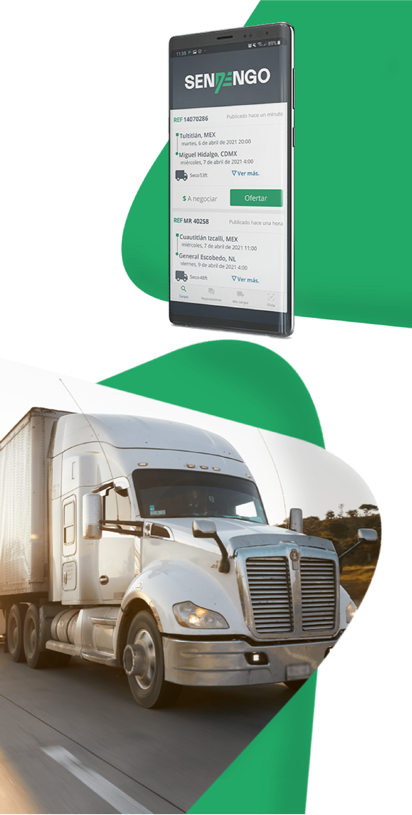
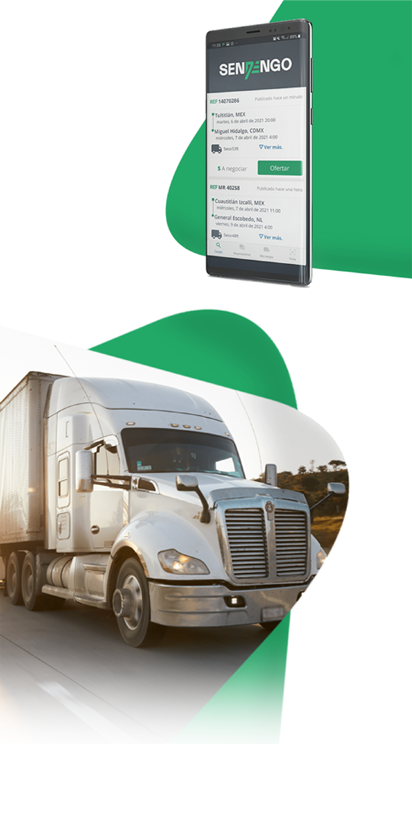
cambios en mobile

diff --git a/css/mobilestyles.css b/css/mobilestyles.css
@@ -1,6 +1,6 @@
 @media (max-width: 575.98px) {
     .top-banner h1 {
-        font-size: 1.5rem;
+        font-size: 24px;
         font-weight: 500;
         text-align: center;
         line-height: 31px;
@@ -21,8 +21,11 @@
         align-items: center;
     }
 
+
+
     .bottom-banner {
-        height: 95px;
+        height: 60px;
+        align-items: center !important;
     }
 
     .bottom-banner h3 {
@@ -32,6 +35,7 @@
     .content-about {
         padding-left: 20px;
         padding-top: 55px;
+        padding-bottom: 55px;
     }
 
     .content-about h2 {
@@ -39,8 +43,9 @@
     }
 
     .design-connecting h2 {
-        font-size: 26px;
-        line-height: 35px;
+        font-size: 20px;
+        line-height: 32px;
+        padding-top: 0 !important;
     }
 
     .connecting-space-card {
@@ -48,9 +53,15 @@
         margin-bottom: 0 !important;
     }
 
+    .text-connecting {
+        font-size: 18px !important;
+        line-height: 30px;
+    }
+
     .button-white {
         padding-left: 18px;
         padding-right: 18px;
+        font-size: 1.25em;
     }
 
     .button-connecting {
@@ -59,6 +70,12 @@
 
     .container-team {
         padding-left: 20px;
+    }
+
+    .container-team h2 {
+        font-size: 28px;
+        line-height: 34px;
+
     }
 
     .imagen-team {
@@ -71,7 +88,7 @@
     }
 
     .whatsapp-banner {
-        height: 313px;
+        height: 200px;
         margin-bottom: 37px;
     }
 
@@ -102,6 +119,18 @@
         display: flex;
         justify-content: center;
         margin-top: 20px;
+        flex-direction: column;
+        align-items: center;
+    }
+
+    .content-partner h2 {
+        font-size: 28px;
+
+    }
+
+    .content-partner img {
+        padding: 0 !important;
+        margin: 0 !important;
     }
 
     .text-connecting-regular {
@@ -136,6 +165,7 @@
 
     .conten-whats-transportista h2 {
         display: inline;
+        font-size: 24px;
     }
 
     .whatsapp-banner {
@@ -144,8 +174,12 @@
 
     .content-app {
         padding: 0 !important;
-        margin-top: 80px;
-        margin-bottom: 64px;
+        margin-top: 50px;
+        margin-bottom: 50px;
+    }
+
+    .content-app p {
+        font-size: 24px;
     }
 
     .carrusel-faq h2 {
@@ -154,7 +188,7 @@
     }
 
     .whats-banner-faq {
-        height: 237px !important;
+        height: 170px !important;
     }
 
     .content-whats-faq {
@@ -162,8 +196,18 @@
 
     }
 
+    .content-whats-faq h2 {
+        font-size: 20px;
+    }
+
     .content-whats-faq button {
         margin-bottom: 20px;
+        margin-top: 0 !important;
+    }
+
+    .section-registro {
+        padding-bottom: 0 !important;
+        margin-bottom: 30px !important;
     }
 
     .navbar .container {
@@ -195,6 +239,7 @@
     .botones-home {
         flex-direction: column;
         align-items: center;
+        margin-bottom: 0;
     }
 
     .botones-home-space {
@@ -205,6 +250,10 @@
 
     .bottom-banner {
         position: initial;
+    }
+
+    .bottom-banner h3 {
+        font-size: 1.25em;
     }
 
     .button-home-embarcador {
@@ -221,8 +270,14 @@
 
     }
 
+    .whats-embarcador-mobile h2 {
+        font-size: 24px;
+        line-height: 32px;
+    }
+
     .whats-embarcador-mobile span {
         visibility: hidden;
+        display: none;
     }
 
     .content-terminos {
@@ -231,6 +286,67 @@
 
     .content-terminos a {
         padding-bottom: 11px;
+    }
+
+    .footer-mobile {
+        display: flex;
+        flex-direction: column;
+        align-items: center;
+    }
+
+    .text-testimonial {
+        font-size: 16px;
+    }
+
+    .testimonial-mobile {
+        margin: 0 !important;
+    }
+
+    .rutas-mobile {
+        padding-bottom: 0 !important;
+        margin-bottom: 30px !important;
+    }
+
+    .section-blog h2 {
+        font-size: 24px;
+        line-height: 30px;
+        padding: 0 !important;
+        margin-top: 30px !important;
+        margin-bottom: 30px !important;
+
+    }
+
+    .card {
+        margin-bottom: 20px;
+    }
+
+    .accordion-button {
+        font-size: 20px;
+        line-height: 30px;
+    }
+
+    .accordion-button:not(.collapsed) {
+        font-size: 20px;
+    }
+
+    .accordion-body {
+        font-size: 16px;
+    }
+
+    .title-faq {
+        font-size: 28px;
+    }
+
+    .button-green {
+        font-size: 20px;
+    }
+
+    .top-banner-blog h1 {
+        font-size: 24px;
+    }
+
+    .top-banner-faq h1 {
+        font-size: 24px;
     }
 
 }

diff --git a/transportista.html b/transportista.html
@@ -44,8 +44,7 @@
     <section class="hero-embarcador">
         <div class="container-fluid top-banner-transportista">
             <div class="container">
-                <h1 class=" d-sm-block d-md-none">Únete a la comunidad más grande de transportistas y mantén tu
-                    camión en movimiento.</h1>
+
                 <div class="col-sm-6  content-button-embarcador">
                     <h1 class="">Únete a la comunidad más grande de transportistas y mantén tu camión en movimiento.
                     </h1>
@@ -71,7 +70,7 @@
                     </p>
                     <p class="text-main fw-bold text-green"> Somos Confianza + Profesionalización. </p>
                 </div>
-                <div class="col-md-6 col-sm-12 pe-0 ">
+                <div class="col-md-6 col-sm-12 pe-0 d-none d-sm-block">
                     <img src="./img/transportista.jpeg" class="img-fluid w-100" alt="¿Qué es sendengo?">
                 </div>
             </div>
@@ -109,7 +108,7 @@
     <!--TEstimonios-->
     <section class="container-fluid">
         <div class="container">
-            <div class="row mb-5 mt-5 pt-5 pb-5">
+            <div class="row mb-5 mt-5 pt-5 pb-5 testimonial-mobile">
                 <div class="col-md-6 d-flex align-items-start flex-column content-testimonial">
                     <img src="./img/rating.png" alt="rating" class="mb-4">
                     <p class="text-testimonial">“Con Sendengo tengo apoyo de un coordinador al asignar mi viaje,
@@ -154,7 +153,7 @@
     <!--Rutas-->
     <section class="container-fluid rutas">
         <div class="container ">
-            <div class="row mt-5 mb-5 pt-5 pb-5">
+            <div class="row mt-5 mb-5 pt-5 pb-5 rutas-mobile">
                 <div class="col-md-6">
                     <img src="./img/mapa.png" alt="rutas mexico" class="img-fluid w-100">
                 </div>
@@ -176,7 +175,7 @@
             <div class="row">
                 <h2 class="pb-3">Te llevamos <span class="text-green text-center">a cargar </span> con los grandes
                     clientes. </h2>
-                <div class="container text-center my-3">
+                <div class="container text-center my-3 d-none d-sm-block">
                     <div class="row mx-auto my-auto d-flex justify-content-end">
                         <div id="recipeCarousel" class="carousel slide" data-bs-ride="carousel">
                             <div class="carousel-inner" role="listbox">
@@ -256,7 +255,7 @@
                             alt="google play" class="mx-auto d-block"></a>
                 </div>
             </div>
-            <div class="col-md-6 pe-0">
+            <div class="col-md-6 pe-0 d-none d-sm-block">
                 <img src="./img/sendengo-phone.png" alt="descarga la app" class="img-fluid ">
             </div>
         </div>
@@ -310,7 +309,7 @@
         <div class="container-fluid">
             <div class="container">
                 <div class="row pt-4">
-                    <div class="col-md-6">
+                    <div class="col-md-6 footer-mobile">
                         <img src="./img/logo-sendengo.png" alt="sendego" class="mb-4">
                         <p class="footer-text">Sendengo Paseo de la Reforma #23, Tabacalera, Ciudad de México C.P. 06030
 

diff --git a/FAQ.html b/FAQ.html
@@ -224,7 +224,7 @@
         </div>
     </section>
     <!--Registrate-->
-    <section class="mt-5 mb-5 pt-5 pb-5">
+    <section class="mt-5 mb-5 pt-5 pb-5 section-registro">
         <div class="container-fluid whatsapp-banner d-flex whats-banner-faq ">
             <div class="container d-flex align-items-center justify-content-between content-whats-faq">
                 <h2 class=" text-white d-inline">Contáctanos y carga con nosotros </h2>
@@ -233,7 +233,7 @@
         </div>
     </section>
     <!--Carusel-->
-    <section class="container-fluid pb-5">
+    <section class="container-fluid pb-5 d-none d-sm-block">
         <div class="container pb-3">
             <div class="row">
                 <h2 class="pb-3 carousel-faq">Clientes que confían en nosotros </h2>
@@ -297,7 +297,7 @@
         <div class="container-fluid">
             <div class="container">
                 <div class="row pt-4">
-                    <div class="col-md-6">
+                    <div class="col-md-6 footer-mobile">
                         <img src="./img/logo-sendengo.png" alt="sendego" class="mb-4">
                         <p class="footer-text">Sendengo Paseo de la Reforma #23, Tabacalera, Ciudad de México C.P. 06030
 

diff --git a/embarcador.html b/embarcador.html
@@ -78,7 +78,7 @@
                         <p class="text-main fw-bold text-green">Así de Simple.</p>
                     </div>
                 </div>
-                <div class="col-md-6 pe-0">
+                <div class="col-md-6 pe-0 d-none d-sm-block">
                     <img src="./img/bg-about.png" class="img-fluid w-100" alt="¿Qué es sendengo?">
                 </div>
             </div>
@@ -168,7 +168,7 @@
         </div>
     </section>
     <!--Carousel-->
-    <section class="pb-5 pt-3">
+    <section class="pb-5 pt-3 d-none d-sm-block ">
         <div class="container-fluid">
             <div class="container">
                 <div class="row pt-5">
@@ -355,7 +355,7 @@
         <div class="container-fluid">
             <div class="container">
                 <div class="row pt-4">
-                    <div class="col-md-6">
+                    <div class="col-md-6 footer-mobile">
                         <img src="./img/logo-sendengo.png" alt="sendego" class="mb-4">
                         <p class="footer-text">Sendengo Paseo de la Reforma #23, Tabacalera, Ciudad de México C.P. 06030
 

diff --git a/blog.html b/blog.html
@@ -104,7 +104,7 @@
         <div class="container-fluid">
             <div class="container">
                 <div class="row pt-4">
-                    <div class="col-md-6">
+                    <div class="col-md-6 footer-mobile">
                         <img src="./img/logo-sendengo.png" alt="sendego" class="mb-4">
                         <p class="footer-text">Sendengo Paseo de la Reforma #23, Tabacalera, Ciudad de México C.P. 06030
 
